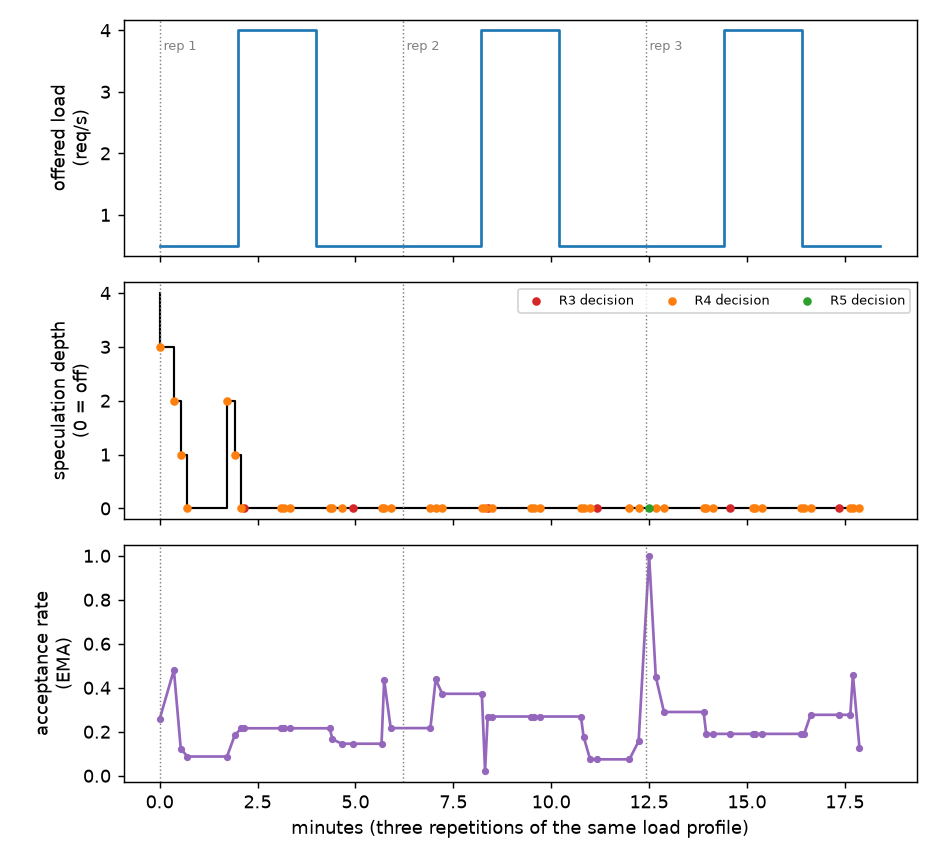
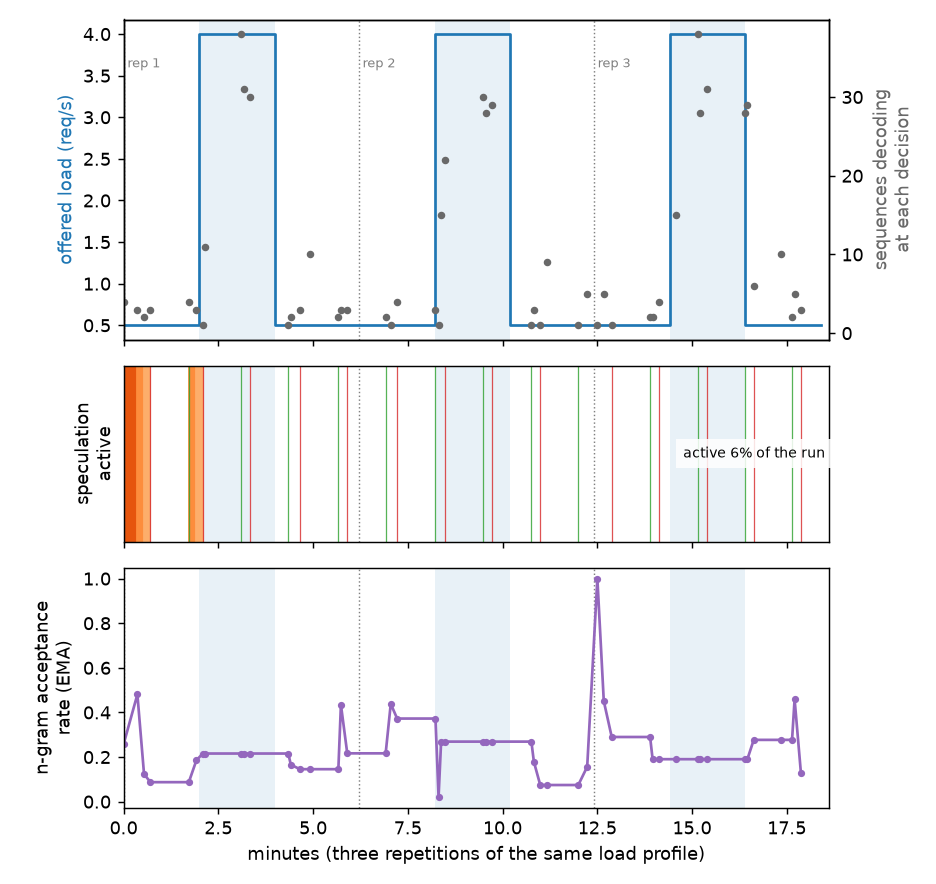
Report: Autopilot timeline chart (offered load, speculation depth, acceptance rate) built from the result files

diff --git a/benchmarks/make_report.py b/benchmarks/make_report.py
@@ -303,31 +303,54 @@ def main():
                             skip = d["new"]
                         ex.append((d["ts"] - t0) / 60)
                         ey.append(k if on and not skip else 0)
-                    colors = {"R3": "tab:red", "R4": "tab:orange", "R5": "tab:green"}
-                    fig, axs = plt.subplots(3, 1, figsize=(7.2, 6.6), sharex=True)
-                    axs[0].step(lx, ly, where="post", color="tab:blue")
-                    axs[0].set_ylabel("offered load\n(req/s)")
-                    axs[1].step(ex, ey, where="post", color="black", lw=1.2)
-                    for rule, col in colors.items():
-                        pts = [(e, ey[i + 1]) for i, (d, e) in enumerate(zip(dec, ex[1:], strict=True)) if d["rule"] == rule]
-                        if pts:
-                            axs[1].scatter(*zip(*pts, strict=False), s=14, color=col, label=f"{rule} decision", zorder=3)
-                    axs[1].set_ylabel("speculation depth\n(0 = off)")
-                    axs[1].legend(fontsize=7, loc="upper right", ncol=3)
-                    axs[2].plot([(d["ts"] - t0) / 60 for d in dec], [d["signals"]["accepted_ema"] for d in dec],
-                                marker="o", ms=3, color="tab:purple")
-                    axs[2].set_ylabel("acceptance rate\n(EMA)")
-                    axs[2].set_xlabel("minutes (three repetitions of the same load profile)")
-                    for i, st in enumerate(starts):
+                    end_min = sum(durs) / 60
+                    hi = max(r for _, r in prof)
+                    fig, axs = plt.subplots(3, 1, figsize=(7.2, 6.8), sharex=True,
+                                            gridspec_kw={"height_ratios": [2, 1.1, 1.5]})
+                    for st in starts:
+                        t = st
+                        for dur, rate in prof:
+                            if rate == hi:
+                                for ax in axs:
+                                    ax.axvspan(t / 60, (t + dur) / 60, color="tab:blue", alpha=0.10, lw=0)
+                            t += dur
                         for ax in axs:
                             ax.axvline(st / 60, color="grey", ls=":", lw=0.8)
-                        axs[0].text(st / 60 + 0.1, max(ly) * 0.92, f"rep {i + 1}", fontsize=7, color="grey")
+                    dx = [(d["ts"] - t0) / 60 for d in dec]
+                    axs[0].step(lx, ly, where="post", color="tab:blue")
+                    axs[0].set_ylabel("offered load (req/s)", color="tab:blue")
+                    twin = axs[0].twinx()
+                    twin.scatter(dx, [d["signals"]["decode_batch"] for d in dec], s=10, color="dimgray")
+                    twin.set_ylabel("sequences decoding\nat each decision", color="dimgray")
+                    for i_rep, st in enumerate(starts):
+                        axs[0].text(st / 60 + 0.1, hi * 0.9, f"rep {i_rep + 1}", fontsize=7, color="grey")
+                    depth_color = {1: "#fdae6b", 2: "#fd8d3c", 3: "#e6550d", 4: "#a63603"}
+                    active = 0.0
+                    for n in range(len(ex)):
+                        a0 = ex[n]
+                        b0 = ex[n + 1] if n + 1 < len(ex) else end_min
+                        if ey[n] > 0:
+                            axs[1].broken_barh([(a0, b0 - a0)], (0, 1), color=depth_color.get(ey[n], "#a63603"))
+                            active += b0 - a0
+                    for d, x in zip(dec, dx, strict=True):
+                        if d["setting"] == "spec_on":
+                            axs[1].axvline(x, color="tab:green" if d["new"] else "tab:red", lw=0.7, alpha=0.8)
+                    axs[1].set_ylim(0, 1)
+                    axs[1].set_yticks([])
+                    axs[1].set_ylabel("speculation\nactive")
+                    axs[1].text(0.995, 0.5, f"active {active / end_min:.0%} of the run", transform=axs[1].transAxes,
+                                ha="right", va="center", fontsize=8, bbox={"facecolor": "white", "alpha": 0.85, "lw": 0})
+                    axs[2].plot(dx, [d["signals"]["accepted_ema"] for d in dec], marker="o", ms=3, color="tab:purple")
+                    axs[2].set_ylabel("n-gram acceptance\nrate (EMA)")
+                    axs[2].set_xlabel("minutes (three repetitions of the same load profile)")
+                    axs[2].set_xlim(0, end_min)
                     save_fig(fig, "autopilot_timeline.png")
                     flips = sum(1 for d in dec if d["setting"] == "spec_on")
                     L += ["![Autopilot decisions over the load profile](figures/autopilot_timeline.png)", "",
-                          f"Top: offered load. Middle: effective speculation depth after each decision (0 means speculation is off). "
-                          f"Bottom: the n-gram acceptance rate that drove the decisions. Speculation was switched on or off {flips} times "
-                          f"across the three repetitions.", ""]
+                          f"Shaded: the {hi:g} req/s phases. Top: offered load (line) and the number of sequences decoding at each "
+                          f"decision (dots). Middle: when speculation was active (bar colour = depth); green and red lines mark "
+                          f"speculation switched on and off. Bottom: the n-gram acceptance rate behind the decisions. Speculation was "
+                          f"switched on or off {flips} times and was active for {active / end_min:.0%} of the run.", ""]
 
     # ---- ramp
     ramp = groups.get("ramp", [])

diff --git a/benchmarks/REPORT.md b/benchmarks/REPORT.md
@@ -94,7 +94,7 @@ Autopilot made 51 decisions in the `full` run: R3 spec_skip x6, R4 spec_k x17, R
 
 ![Autopilot decisions over the load profile](figures/autopilot_timeline.png)
 
-Top: offered load. Middle: effective speculation depth after each decision (0 means speculation is off). Bottom: the n-gram acceptance rate that drove the decisions. Speculation was switched on or off 27 times across the three repetitions.
+Shaded: the 4 req/s phases. Top: offered load (line) and the number of sequences decoding at each decision (dots). Middle: when speculation was active (bar colour = depth); green and red lines mark speculation switched on and off. Bottom: the n-gram acceptance rate behind the decisions. Speculation was switched on or off 27 times and was active for 6% of the run.
 
 ## Ramp: maximum sustainable rate (TuringServe)
 
